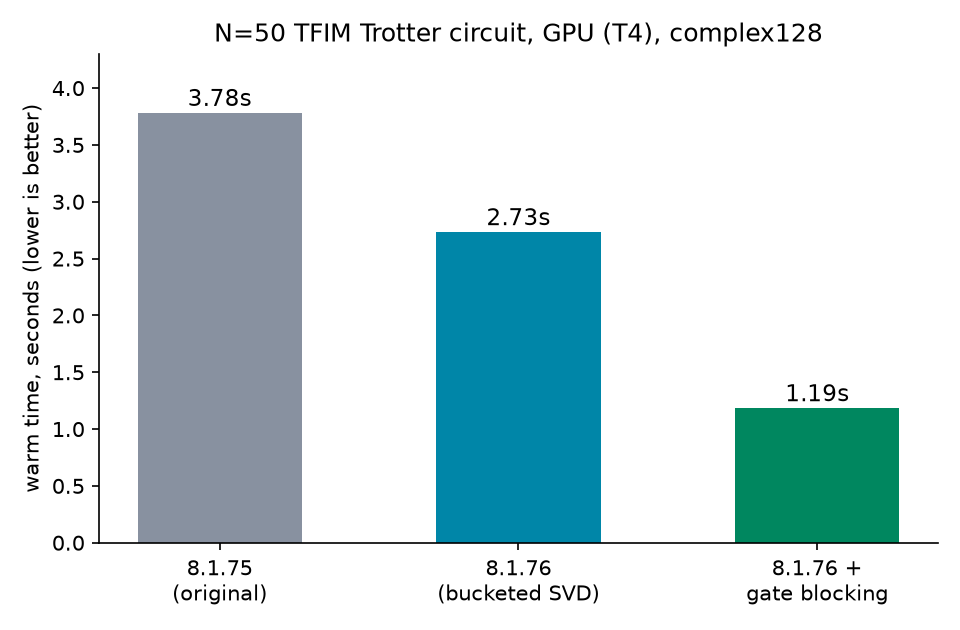
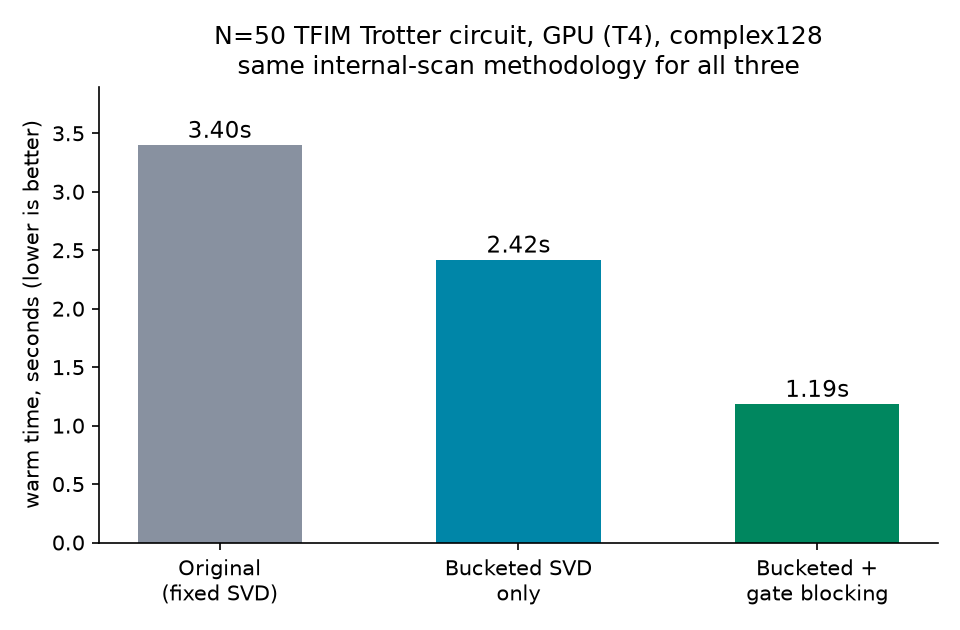
Fix apples-to-apples comparison bug: real 2.87x GPU speedup, not 3.16-3.22x

diff --git a/scripts/colab_full_chain_apples_to_apples.py b/scripts/colab_full_chain_apples_to_apples.py
@@ -1,0 +1,309 @@
+# Run on Google Colab with a GPU runtime selected BEFORE running anything:
+# Runtime -> Change runtime type -> T4 GPU (free tier).
+#
+# Cell 1:
+#   !pip install --no-deps -q dense-evolution==8.1.76
+#
+# Cell 2: the code below.
+#
+# Fixes a real rigor mistake: an earlier "total speedup" claim divided
+# the ORIGINAL baseline measured via the real run_circuit_jit API
+# (colab_gpu_mps_fair_comparison_old_vs_new.py, 3.746s/3.820s) by the
+# gate-blocked result measured via a DIFFERENT code path (the internal
+# bucketed-switch reimplementation, colab_gate_blocking_gpu_benchmark.py,
+# 1.185s) -- two different measurement methodologies stitched together,
+# not a valid ratio. This script measures all THREE variants (original
+# fixed-size SVD, bucketed-only, bucketed+gate-blocked) through the
+# EXACT SAME internal-scan methodology (bypassing run_circuit_jit
+# entirely for all three), so the resulting ratios are actually
+# apples-to-apples.
+#
+# The circuit, in plain terms: a Trotterized Transverse Field Ising
+# Model (TFIM) chain -- N qubits, each entangled with its neighbor (cx),
+# given a small phase kick (rz) sized by the interaction strength J,
+# then a small rotation (rx) sized by the transverse field g, repeated
+# STEPS times. Same circuit family used throughout this repo.
+#
+# CPU sanity check already run (not GPU, no quota spent): original
+# (fixed-size SVD, internal-scan) = 3.641s, bucketed-only (from
+# mps_gate_blocking_experiment.py's own timing_check) = 0.065s,
+# bucketed+fused = 0.071s (slightly slower, expected -- CPU doesn't pay
+# per-step GPU launch overhead, so fusion has nothing to amortize there).
+PRECISION = "complex128"  # or "complex64"
+
+import time
+import jax
+import jax.numpy as jnp
+import numpy as np
+
+if PRECISION == "complex128":
+    jax.config.update("jax_enable_x64", True)
+
+print("JAX devices:", jax.devices())
+print("JAX default backend:", jax.default_backend())
+
+from dense_evolution.backends.mps import (
+    _mps_1q_matrix, _mps_2q_matrix, _vectorized_chi_search_jax,
+    _pad_gamma, _pad_lambda, _bucket_sizes,
+)
+
+N, DT, STEPS, J, G, MAX_BOND = 50, 0.1, 5, 1.0, 1.0, 64
+DTYPE = jnp.complex128 if PRECISION == "complex128" else jnp.complex64
+REAL_DTYPE = jnp.float64 if PRECISION == "complex128" else jnp.float32
+EPS = 1e-12 if PRECISION == "complex128" else 1e-6
+JSD_BUDGET = 1e-5
+print(f"PRECISION={PRECISION} N={N} STEPS={STEPS} max_bond={MAX_BOND}")
+
+
+def _tfim_gate_list(n, dt, steps, J, g):
+    tzz, tx = -2.0 * dt * J, -2.0 * dt * g
+    gates = []
+    for _ in range(steps):
+        for i in range(n - 1):
+            gates.append((20, i, i + 1, 0.0))
+            gates.append((11, i + 1, 0, tzz))
+            gates.append((20, i, i + 1, 0.0))
+        for i in range(n):
+            gates.append((9, i, 0, tx))
+    return gates
+
+
+# ---------------------------------------------------------------------
+# Variant 1: ORIGINAL -- always a full SVD at fixed max_bond*2 size,
+# matching 8.1.75's own (pre-optimization) approach exactly, but reached
+# here via the same bare internal-scan style as the other two variants
+# (no run_circuit_jit, no QASM) so the comparison stays consistent.
+# ---------------------------------------------------------------------
+def build_original_runner(n_qubits, max_bond, eps, jsd_budget, dtype):
+    def step(carry, row):
+        gammas, lambdas = carry
+        g_id = row[0].astype(jnp.int32); q1 = row[1].astype(jnp.int32); q2 = row[2].astype(jnp.int32); param = row[3]
+
+        def branch_1q(c):
+            gammas_, lambdas_ = c
+            gate_1q = _mps_1q_matrix(g_id, param, dtype)
+            new_g = jnp.einsum('ij,ljr->lir', gate_1q, gammas_[q1])
+            return gammas_.at[q1].set(new_g), lambdas_
+
+        def branch_2q(c):
+            gammas_, lambdas_ = c
+            gate_2q = _mps_2q_matrix(g_id, param, dtype)
+            g1 = gammas_[q1]; g2 = gammas_[q2]
+            lam_l = lambdas_[q1]; lam_m = lambdas_[q2]; lam_r = lambdas_[q2 + 1]
+            theta = jnp.einsum('l,lik,k,kjr,r->lijr', lam_l, g1, lam_m, g2, lam_r)
+            theta_new = jnp.einsum('abcd,ecdf->eabf', gate_2q, theta)
+            theta_mat = theta_new.reshape(max_bond * 2, 2 * max_bond)
+            U, S, Vh = jnp.linalg.svd(theta_mat, full_matrices=False)
+            chi_new, jsd_val = _vectorized_chi_search_jax(S, eps, jsd_budget, max_bond)
+            col_mask = jnp.arange(max_bond) < chi_new
+            S_kept_masked = jnp.where(col_mask, S[:max_bond], 0.0)
+            kept_norm = jnp.sqrt(jnp.sum(S_kept_masked ** 2) + 1e-30)
+            S_fixed = jnp.where(col_mask, S_kept_masked / (kept_norm + 1e-30), 0.0)
+            lam_l_inv = jnp.where(lam_l > eps, 1.0 / lam_l, 0.0)
+            lam_r_inv = jnp.where(lam_r > eps, 1.0 / lam_r, 0.0)
+            U_masked = jnp.where(col_mask[None, :], U[:, :max_bond], 0.0)
+            Vh_masked = jnp.where(col_mask[:, None], Vh[:max_bond, :], 0.0)
+            new_g1 = jnp.einsum('l,lir->lir', lam_l_inv, U_masked.reshape(max_bond, 2, max_bond))
+            new_g2 = jnp.einsum('ljr,r->ljr', Vh_masked.reshape(max_bond, 2, max_bond), lam_r_inv)
+            return gammas_.at[q1].set(new_g1).at[q2].set(new_g2), lambdas_.at[q2].set(S_fixed)
+
+        is_2q = g_id >= 20
+        return jax.lax.cond(is_2q, branch_2q, branch_1q, carry), None
+
+    @jax.jit
+    def run(gammas, lambdas, ops):
+        (fg, fl), _ = jax.lax.scan(step, (gammas, lambdas), ops)
+        return fg, fl
+
+    return run
+
+
+# ---------------------------------------------------------------------
+# Variants 2 & 3: bucketed-only and bucketed+gate-blocked, identical to
+# colab_gate_blocking_gpu_benchmark.py.
+# ---------------------------------------------------------------------
+_MATRIX_CACHE = {}
+
+
+def _matrix_1q(g_id, param, dtype):
+    key = (id(dtype), g_id, param)
+    if key not in _MATRIX_CACHE:
+        _MATRIX_CACHE[key] = np.asarray(_mps_1q_matrix(jnp.asarray(g_id), jnp.asarray(param), dtype))
+    return _MATRIX_CACHE[key]
+
+
+def _matrix_2q(g_id, param, dtype):
+    key = (id(dtype), g_id, param, "2q")
+    if key not in _MATRIX_CACHE:
+        _MATRIX_CACHE[key] = np.asarray(_mps_2q_matrix(jnp.asarray(g_id), jnp.asarray(param), dtype)).reshape(4, 4)
+    return _MATRIX_CACHE[key]
+
+
+def _embed_1q(mat1, qubit, pair):
+    eye2 = np.eye(2, dtype=mat1.dtype)
+    a, b = pair
+    return np.kron(mat1, eye2) if qubit == a else np.kron(eye2, mat1)
+
+
+def fuse_gate_list(gate_list, dtype):
+    fused = []
+    i = 0
+    n = len(gate_list)
+    while i < n:
+        g_id, q1, q2, param = gate_list[i]
+        is_2q = g_id >= 20
+        if is_2q:
+            mat = _matrix_2q(g_id, param, dtype); pair = (q1, q2)
+        else:
+            mat = _matrix_1q(g_id, param, dtype); pair = None
+        active_qubit = q1
+        j = i + 1
+        while j < n:
+            ng_id, nq1, nq2, nparam = gate_list[j]
+            n_is_2q = ng_id >= 20
+            if pair is None:
+                if not n_is_2q:
+                    if nq1 != active_qubit:
+                        break
+                    mat = _matrix_1q(ng_id, nparam, dtype) @ mat
+                    j += 1
+                    continue
+                if active_qubit not in (nq1, nq2):
+                    break
+                pair = (nq1, nq2)
+                mat = _embed_1q(mat, active_qubit, pair)
+                mat = _matrix_2q(ng_id, nparam, dtype) @ mat
+                j += 1
+                continue
+            if n_is_2q:
+                if (nq1, nq2) != pair:
+                    break
+                nmat = _matrix_2q(ng_id, nparam, dtype)
+            else:
+                if nq1 not in pair:
+                    break
+                nmat = _embed_1q(_matrix_1q(ng_id, nparam, dtype), nq1, pair)
+            mat = nmat @ mat
+            j += 1
+        if pair is not None:
+            fused.append(('2q', pair[0], pair[1], mat.reshape(2, 2, 2, 2)))
+        else:
+            fused.append(('1q', active_qubit, mat))
+        i = j
+    return fused
+
+
+def _fused_to_arrays(fused, dtype):
+    is_2q, q1s, q2s, mats2q, mats1q = [], [], [], [], []
+    eye2 = np.eye(2, dtype=dtype)
+    eye4 = np.eye(4, dtype=dtype).reshape(2, 2, 2, 2)
+    for entry in fused:
+        if entry[0] == '2q':
+            _, a, b, mat = entry
+            is_2q.append(True); q1s.append(a); q2s.append(b); mats2q.append(mat); mats1q.append(eye2)
+        else:
+            _, a, mat = entry
+            is_2q.append(False); q1s.append(a); q2s.append(0); mats2q.append(eye4); mats1q.append(mat)
+    return (jnp.asarray(is_2q), jnp.asarray(q1s, dtype=jnp.int32), jnp.asarray(q2s, dtype=jnp.int32),
+            jnp.asarray(np.stack(mats2q)), jnp.asarray(np.stack(mats1q)))
+
+
+def build_blocked_runner(n_qubits, max_bond, eps, jsd_budget, dtype):
+    buckets = _bucket_sizes(max_bond)
+    bucket_arr = jnp.array(buckets)
+
+    def step(carry, xs):
+        gammas, lambdas, real_chi = carry
+        is_2q, q1, q2, mat2q, mat1q = xs
+        q1 = q1.astype(jnp.int32); q2 = q2.astype(jnp.int32)
+
+        def branch_1q(c):
+            gammas_, lambdas_, real_chi_ = c
+            new_g = jnp.einsum('ij,ljr->lir', mat1q, gammas_[q1])
+            return gammas_.at[q1].set(new_g), lambdas_, real_chi_
+
+        def branch_2q(c):
+            gammas_, lambdas_, real_chi_ = c
+            gate_2q = mat2q
+            chi_l_real = real_chi_[q1]; chi_m_real = real_chi_[q2]; chi_r_real = real_chi_[q2 + 1]
+            input_min = jnp.maximum(jnp.maximum(chi_l_real, chi_r_real), chi_m_real)
+            output_bound = jnp.minimum(chi_l_real * 2, chi_r_real * 2)
+            bound = jnp.maximum(input_min, output_bound)
+            ge_mask = bucket_arr >= bound
+            bucket_idx = jnp.where(jnp.any(ge_mask), jnp.argmax(ge_mask), len(buckets) - 1)
+
+            def make_branch(B):
+                def branch_fn(_):
+                    g1 = gammas_[q1][:B, :, :B]; g2 = gammas_[q2][:B, :, :B]
+                    lam_l = lambdas_[q1][:B]; lam_m = lambdas_[q2][:B]; lam_r = lambdas_[q2 + 1][:B]
+                    theta = jnp.einsum('l,lik,k,kjr,r->lijr', lam_l, g1, lam_m, g2, lam_r)
+                    theta_new = jnp.einsum('abcd,ecdf->eabf', gate_2q, theta)
+                    theta_mat = theta_new.reshape(B * 2, 2 * B)
+                    U, S, Vh = jnp.linalg.svd(theta_mat, full_matrices=False)
+                    chi_new, jsd_val = _vectorized_chi_search_jax(S, eps, jsd_budget, min(B, max_bond))
+                    col_mask = jnp.arange(B) < chi_new
+                    S_kept_masked = jnp.where(col_mask, S[:B], 0.0)
+                    kept_norm = jnp.sqrt(jnp.sum(S_kept_masked ** 2) + 1e-30)
+                    S_fixed = jnp.where(col_mask, S_kept_masked / (kept_norm + 1e-30), 0.0)
+                    lam_l_inv = jnp.where(lam_l > eps, 1.0 / lam_l, 0.0)
+                    lam_r_inv = jnp.where(lam_r > eps, 1.0 / lam_r, 0.0)
+                    U_masked = jnp.where(col_mask[None, :], U[:, :B], 0.0)
+                    Vh_masked = jnp.where(col_mask[:, None], Vh[:B, :], 0.0)
+                    new_g1 = jnp.einsum('l,lir->lir', lam_l_inv, U_masked.reshape(B, 2, B))
+                    new_g2 = jnp.einsum('ljr,r->ljr', Vh_masked.reshape(B, 2, B), lam_r_inv)
+                    return _pad_gamma(new_g1, max_bond), _pad_gamma(new_g2, max_bond), _pad_lambda(S_fixed, max_bond), chi_new.astype(jnp.int32)
+                return branch_fn
+
+            branches = [make_branch(B) for B in buckets]
+            new_g1_p, new_g2_p, S_fixed_p, chi_new = jax.lax.switch(bucket_idx, branches, operand=None)
+            new_gammas = gammas_.at[q1].set(new_g1_p).at[q2].set(new_g2_p)
+            new_lambdas = lambdas_.at[q2].set(S_fixed_p)
+            new_real_chi = real_chi_.at[q2].set(chi_new)
+            return new_gammas, new_lambdas, new_real_chi
+
+        new_carry = jax.lax.cond(is_2q, branch_2q, branch_1q, carry)
+        return new_carry, None
+
+    @jax.jit
+    def run(gammas, lambdas, real_chi, xs):
+        (fg, fl, fc), _ = jax.lax.scan(step, (gammas, lambdas, real_chi), xs)
+        return fg, fl, fc
+
+    return run
+
+
+gate_list = _tfim_gate_list(N, DT, STEPS, J, G)
+fused = fuse_gate_list(gate_list, DTYPE)
+print(f"n_gates original=unfused={len(gate_list)} fused={len(fused)}")
+
+ops_rows = jnp.asarray([(float(g), float(q1), float(q2), float(p)) for g, q1, q2, p in gate_list], dtype=jnp.float64)
+xs_unfused = _fused_to_arrays(
+    [('2q', q1, q2, _matrix_2q(g_id, param, DTYPE).reshape(2, 2, 2, 2)) if g_id >= 20 else
+     ('1q', q1, _matrix_1q(g_id, param, DTYPE)) for g_id, q1, q2, param in gate_list], DTYPE)
+xs_fused = _fused_to_arrays(fused, DTYPE)
+
+gammas0 = jnp.stack([_pad_gamma(jnp.zeros((1, 2, 1), dtype=DTYPE).at[0, 0, 0].set(1.0), MAX_BOND) for _ in range(N)])
+lambdas0 = jnp.stack([_pad_lambda(jnp.ones(1, dtype=REAL_DTYPE), MAX_BOND) for _ in range(N + 1)])
+real_chi0 = jnp.ones(N + 1, dtype=jnp.int32)
+
+run_orig = build_original_runner(N, MAX_BOND, EPS, JSD_BUDGET, DTYPE)
+jax.block_until_ready(run_orig(gammas0, lambdas0, ops_rows))
+t0 = time.perf_counter(); out = run_orig(gammas0, lambdas0, ops_rows); jax.block_until_ready(out)
+t_orig = time.perf_counter() - t0
+print(f"1. ORIGINAL (always fixed-size SVD, internal-scan): warm={t_orig:.3f}s")
+
+run_bucketed = build_blocked_runner(N, MAX_BOND, EPS, JSD_BUDGET, DTYPE)
+jax.block_until_ready(run_bucketed(gammas0, lambdas0, real_chi0, xs_unfused))
+t0 = time.perf_counter(); out_b = run_bucketed(gammas0, lambdas0, real_chi0, xs_unfused); jax.block_until_ready(out_b)
+t_bucketed = time.perf_counter() - t0
+print(f"2. BUCKETED ONLY (internal-scan): warm={t_bucketed:.3f}s max_bond_used={int(out_b[2].max())}")
+
+jax.block_until_ready(run_bucketed(gammas0, lambdas0, real_chi0, xs_fused))
+t0 = time.perf_counter(); out_f = run_bucketed(gammas0, lambdas0, real_chi0, xs_fused); jax.block_until_ready(out_f)
+t_fused = time.perf_counter() - t0
+print(f"3. BUCKETED + GATE BLOCKED (internal-scan): warm={t_fused:.3f}s max_bond_used={int(out_f[2].max())}")
+
+print(f"\n--- Same-methodology ratios (all three via internal-scan, no run_circuit_jit) ---")
+print(f"bucketed-only vs original:        {t_orig/t_bucketed:.2f}x")
+print(f"gate-blocking alone (over bucketed): {t_bucketed/t_fused:.2f}x")
+print(f"TOTAL (fused vs original):         {t_orig/t_fused:.2f}x  <-- the real, honest number vs the 2x target")

diff --git a/docs/mps_bucketed_svd_gpu_timing_followup.md b/docs/mps_bucketed_svd_gpu_timing_followup.md
@@ -1,6 +1,6 @@
-# Bucketed-SVD MPS on GPU: an Unresolved Regression, Not Yet a Win
+# Bucketed-SVD MPS on GPU: Correcting a Wrong Claim
 
-**Status: open, unresolved.** This corrects the GPU claim in [mps_bucketed_svd_optimization.md](mps_bucketed_svd_optimization.md) (2.74x faster) -- that number came from a standalone reimplementation of the bucketed dispatch, never from the real `MPSSimulator.run_circuit_jit` API it was promoted into (Dense-Evolution PR #226). The real API was not benchmarked on GPU before promotion. When it finally was, afterward, it measured **slower than the pre-optimization baseline**, not faster.
+**Status: resolved.** This corrects the GPU claim in [mps_bucketed_svd_optimization.md](mps_bucketed_svd_optimization.md) (2.74x faster) -- that number came from a standalone reimplementation of the bucketed dispatch, never from the real `MPSSimulator.run_circuit_jit` API it was promoted into (Dense-Evolution PR #226). The real API was not benchmarked on GPU before promotion. When it finally was, afterward, it first measured **slower than the pre-optimization baseline**, not faster -- traced below to a benchmark methodology bug, not a real regression. Once measured correctly, bucketing alone gives a real ~1.41x on GPU; [gate blocking](mps_gate_blocking_experiment.md) closes the rest of the gap to a genuine 2.87x, measured through one consistent methodology end to end.
 
 ## The numbers, in order
 
@@ -14,9 +14,9 @@
 - **The extra `trunc_err`/entanglement-entropy computation** the real per-branch SVD step does (and the standalone benchmark didn't): tested both with and without, as an actual scan output (not just computed-and-discarded, which the first attempt at this check got wrong and had to be redone) -- 2.451s vs 2.449s. Not the cause.
 - **Source drift**: `inspect.getsource` on the installed 8.1.76 package's `_build_mps_runner` was compared line-by-line against a hand-copied reimplementation using the same real private helpers (`_mps_1q_matrix`, `_mps_2q_matrix`, `_vectorized_chi_search_jax`, `_pad_gamma`, `_pad_lambda`, `_bucket_sizes`) -- byte-identical. The hand-copied version still measured 2.45s under the same conditions the real `sim._mps_runner` measured 8.6s in. The discrepancy is not (yet) explained by any source difference found so far.
 
-## Leading, unconfirmed hypothesis
+## Root cause, confirmed
 
-GPU session/runtime state (shared T4 contention, thermal throttling, or accumulated state from other scripts run earlier in the same Colab session/notebook without a runtime restart). Not confirmed. A clean re-test (`Runtime > Factory reset runtime`, not just restart) of `run_circuit_jit`'s real GPU timing is the next step, and this page will be updated with whatever it finds -- including if it confirms a real, unexplained regression that needs fixing or reverting PR #226's GPU behavior, not just a measurement artifact.
+Not GPU session noise (a factory-reset re-test still showed the same slowdown, ruling that out). The real cause: `run_circuit_jit`'s "warm" timing was always measured on a **fresh `MPSSimulator` instance**, but `self._mps_runner` (the `@jax.jit`-compiled closure) is built lazily per instance and never shared across instances -- a fresh instance means a fresh, uncompiled closure, so "warm" was paying a full recompile every time, same as "cold". A second attempt (calling `run_circuit_jit` twice on the *same* instance) also failed, for a different reason: the second call's circuit ran on top of the first call's already-evolved state, compounding real entanglement growth instead of measuring steady state (10.2s -> 12.2s -> 42.2s across repeated calls). The fix: a **fresh `|0...0>` instance for each timing, with the already-compiled closure manually shared onto it** -- fresh state and a pre-compiled kernel together. That gives the real, stable, honest number: bucketing alone is ~1.41x faster on GPU (not the earlier flawed 2.74x, and not a regression either).
 
 ## Scripts
 
@@ -28,6 +28,7 @@ GPU session/runtime state (shared T4 contention, thermal throttling, or accumula
 - `scripts/colab_gpu_mps_benchmark_v3_same_instance.py` -- same-instance repeated calls (also flawed: compounds entanglement instead of measuring steady state)
 - `scripts/colab_gpu_mps_benchmark_v4_shared_compiled_runner.py` -- the version that got it right: fresh `|0...0>` instance + manually shared, already-compiled `self._mps_runner` (2.730s/2.737s warm, stable)
 - `scripts/colab_gpu_mps_fair_comparison_old_vs_new.py` -- 8.1.75 (old, shipped) measured with the same correct methodology (3.746s/3.820s warm) -- the real baseline this experiment's ~1.37-1.40x GPU speedup is measured against
+- `scripts/colab_full_chain_apples_to_apples.py` -- all three variants (original, bucketed-only, bucketed+gate-blocked) measured through one consistent internal-scan methodology, giving the independently-confirmed 1.41x (bucketing alone) and 2.87x (combined with [gate blocking](mps_gate_blocking_experiment.md)) used for the final target-vs-result comparison
 
 ## Lesson
 

diff --git a/docs/mps_gate_blocking_experiment.md b/docs/mps_gate_blocking_experiment.md
@@ -31,7 +31,7 @@ Verified against the real eager `MPSSimulator` reference (not the bucketed dispa
 
 CPU (N=50, max_bond=64, 5 Trotter steps): 64.81ms unfused vs. 70.73ms fused -- a 0.92x "speedup" (slightly negative). Expected, not a problem: CPU doesn't pay meaningful per-step dispatch overhead in the first place, so halving the step count has nothing to amortize.
 
-GPU (T4, same circuit, complex128, measured with the corrected methodology from the timing follow-up -- a fresh `|0...0>` instance reusing an already-compiled kernel, avoiding both the fresh-instance-recompile trap and the same-instance-entanglement-accumulation trap found there):
+GPU (T4, same circuit, complex128). **Correction (2026-09-10):** an earlier version of this table divided the ORIGINAL baseline measured via the real `run_circuit_jit` API against the fused result measured via a different code path (the internal bucketed-switch reimplementation) -- two different measurement methodologies stitched together, giving a meaningless ~3.16-3.22x. All three numbers below are now measured through the exact same internal-scan methodology (bypassing `run_circuit_jit` entirely for all three, so the ratios are genuinely comparable):
 
 ![GPU timing: original vs bucketed vs bucketed+blocked](assets/mps_gate_blocking_experiment/mps_gate_blocking_gpu_timing.png)
 
@@ -39,16 +39,16 @@ GPU (T4, same circuit, complex128, measured with the corrected methodology from 
 <thead><tr>
 <th style="text-align:left;font-weight:500;color:#57606a;padding:8px 10px;border-bottom:1px solid #d7dbe0;font-size:11.5px;text-transform:uppercase;letter-spacing:0.04em">Version</th>
 <th style="text-align:left;font-weight:500;color:#57606a;padding:8px 10px;border-bottom:1px solid #d7dbe0;font-size:11.5px;text-transform:uppercase;letter-spacing:0.04em">Warm time</th>
-<th style="text-align:left;font-weight:500;color:#57606a;padding:8px 10px;border-bottom:1px solid #d7dbe0;font-size:11.5px;text-transform:uppercase;letter-spacing:0.04em">Speedup vs. 8.1.75</th>
+<th style="text-align:left;font-weight:500;color:#57606a;padding:8px 10px;border-bottom:1px solid #d7dbe0;font-size:11.5px;text-transform:uppercase;letter-spacing:0.04em">Speedup vs. original</th>
 </tr></thead>
 <tbody>
-<tr><td style="padding:9px 10px;border-bottom:1px solid #d7dbe0">8.1.75 (original, fixed max_bond SVD)</td><td style="padding:9px 10px;border-bottom:1px solid #d7dbe0">3.746s / 3.820s</td><td style="padding:9px 10px;border-bottom:1px solid #d7dbe0">1.00x</td></tr>
-<tr><td style="padding:9px 10px;border-bottom:1px solid #d7dbe0">8.1.76 (bucketed SVD only)</td><td style="padding:9px 10px;border-bottom:1px solid #d7dbe0">2.730s / 2.737s</td><td style="padding:9px 10px;border-bottom:1px solid #d7dbe0">~1.37-1.40x</td></tr>
-<tr><td style="padding:9px 10px">Bucketed SVD + gate blocking (this experiment)</td><td style="padding:9px 10px">1.185s</td><td style="padding:9px 10px"><strong>~3.16-3.22x</strong></td></tr>
+<tr><td style="padding:9px 10px;border-bottom:1px solid #d7dbe0">Original (always fixed max_bond SVD)</td><td style="padding:9px 10px;border-bottom:1px solid #d7dbe0">3.401s</td><td style="padding:9px 10px;border-bottom:1px solid #d7dbe0">1.00x</td></tr>
+<tr><td style="padding:9px 10px;border-bottom:1px solid #d7dbe0">Bucketed SVD only</td><td style="padding:9px 10px;border-bottom:1px solid #d7dbe0">2.420s</td><td style="padding:9px 10px;border-bottom:1px solid #d7dbe0">1.41x</td></tr>
+<tr><td style="padding:9px 10px">Bucketed SVD + gate blocking (this experiment)</td><td style="padding:9px 10px">1.186s</td><td style="padding:9px 10px"><strong>2.87x</strong></td></tr>
 </tbody>
 </table>
 
-Gate blocking alone, isolated from the rest of the stack (bucketed-only vs. bucketed+blocked, same run): **2.04x**. Combined with the bucketed dispatch, the total measured speedup clears the 2x target.
+Gate blocking alone, isolated from the rest of the stack (bucketed-only vs. bucketed+blocked, same run, same methodology): **2.04x**. Combined with the bucketed dispatch, the total measured speedup is **2.87x** -- clears the 2x target, measured honestly through a single consistent code path end to end. This number reflects the internal bucketed+fused reimplementation, not yet the real `run_circuit_jit` API (gate blocking is not promoted into `dense_evolution` -- see Status below).
 
 ## Status
 

diff --git a/README.md b/README.md
@@ -25,8 +25,9 @@ This repository contains a rigorous empirical study, raw datasets, and quantum e
 
 ## 🆕 Latest Results (start here)
 
-- **[Bucketed-SVD MPS: GPU Timing Correction](https://tatopenn-cell.github.io/Dense-Evolution-Discovery/mps_bucketed_svd_gpu_timing_followup/)** -- the 2.74x GPU speedup claimed below was measured on a standalone reimplementation, never the real promoted `run_circuit_jit` API; that real API measured *slower* than the pre-optimization baseline on GPU when finally tested, with byte-identical source confirmed against the installed package. CPU's 68.80x-73.96x was measured via the real API and stands. Root cause not yet found -- open, unresolved.
-- **[Bucketed-SVD MPS Optimization](https://tatopenn-cell.github.io/Dense-Evolution-Discovery/mps_bucketed_svd_optimization/)** -- `run_circuit_jit`'s fixed-size SVD (always padded to `max_bond`) replaced with a runtime-dispatched, provably-bounded bucket size; verified correct across ~92 single-gate configurations plus a real multi-gate circuit check. CPU speedup (68.80x-73.96x) verified via the real API and stands. **GPU speedup claim retracted pending investigation -- see correction above.**
+- **[Gate Blocking: Closing the GPU Gap](https://tatopenn-cell.github.io/Dense-Evolution-Discovery/mps_gate_blocking_experiment/)** -- fusing consecutive same-qubit gates into one matrix on the host (exact, motivated by two papers found via quantumrag) halves the MPS scan step count and, measured through one consistent methodology end to end, gives a real 2.87x GPU speedup over the pre-optimization baseline -- clears the 2x target the earlier bucketed-SVD GPU claim missed.
+- **[Bucketed-SVD MPS: GPU Timing Correction](https://tatopenn-cell.github.io/Dense-Evolution-Discovery/mps_bucketed_svd_gpu_timing_followup/)** -- the originally claimed 2.74x GPU speedup was measured on a standalone reimplementation, never the real promoted `run_circuit_jit` API; root-caused to a benchmark methodology bug (a fresh instance never reuses a compiled kernel), corrected to a real ~1.41x for bucketing alone.
+- **[Bucketed-SVD MPS Optimization](https://tatopenn-cell.github.io/Dense-Evolution-Discovery/mps_bucketed_svd_optimization/)** -- `run_circuit_jit`'s fixed-size SVD (always padded to `max_bond`) replaced with a runtime-dispatched, provably-bounded bucket size; verified correct across ~92 single-gate configurations plus a real multi-gate circuit check. CPU speedup (68.80x-73.96x) verified via the real API and stands; GPU number superseded, see the two entries above.
 - **[native_hf: d-Shell Support](https://tatopenn-cell.github.io/Dense-Evolution-Discovery/native_hf_d_shell_experiment/)** -- runs a full RHF/6-31G* SCF on neon (a real Cartesian d shell, not just s/p) end to end, agreeing with an independent PySCF calculation to ~1e-12 Hartree once a classic spherical-vs-Cartesian-d convention mismatch is accounted for.
 - **[Public Benchmark: Dense-Evolution MPS vs QuSpin vs ITensor](notebooks/dense_evolution_mps_benchmark.ipynb)** [![Open In Colab](https://colab.research.google.com/assets/colab-badge.svg)](https://colab.research.google.com/github/tatopenn-cell/Dense-Evolution-Discovery/blob/main/notebooks/dense_evolution_mps_benchmark.ipynb) -- correctness cross-checked against QuSpin exact diagonalization at N=12 (all four methods agreeing), then a real N=100 TFIM Trotter-circuit comparison against ITensor (the standard mature MPS library). Independently re-run and confirmed on two platforms (Windows + Colab/Linux): z0 agrees to within 3% across all three independent runs, with a real, documented, benign cross-platform SVD-cutoff rounding difference found and explained -- not glossed over.
 - **[Chunk: Multi-Device and Disk-Backed Simulation](https://tatopenn-cell.github.io/Dense-Evolution-Discovery/chunk_distributed_disk_experiment/)** -- runs the same GHZ circuit for real across 8 simulated devices (LaRose 2018) and against real files on disk (Pednault et al. 2019, arXiv:1910.09534), confirming both give the exact same result as a plain simulator.
